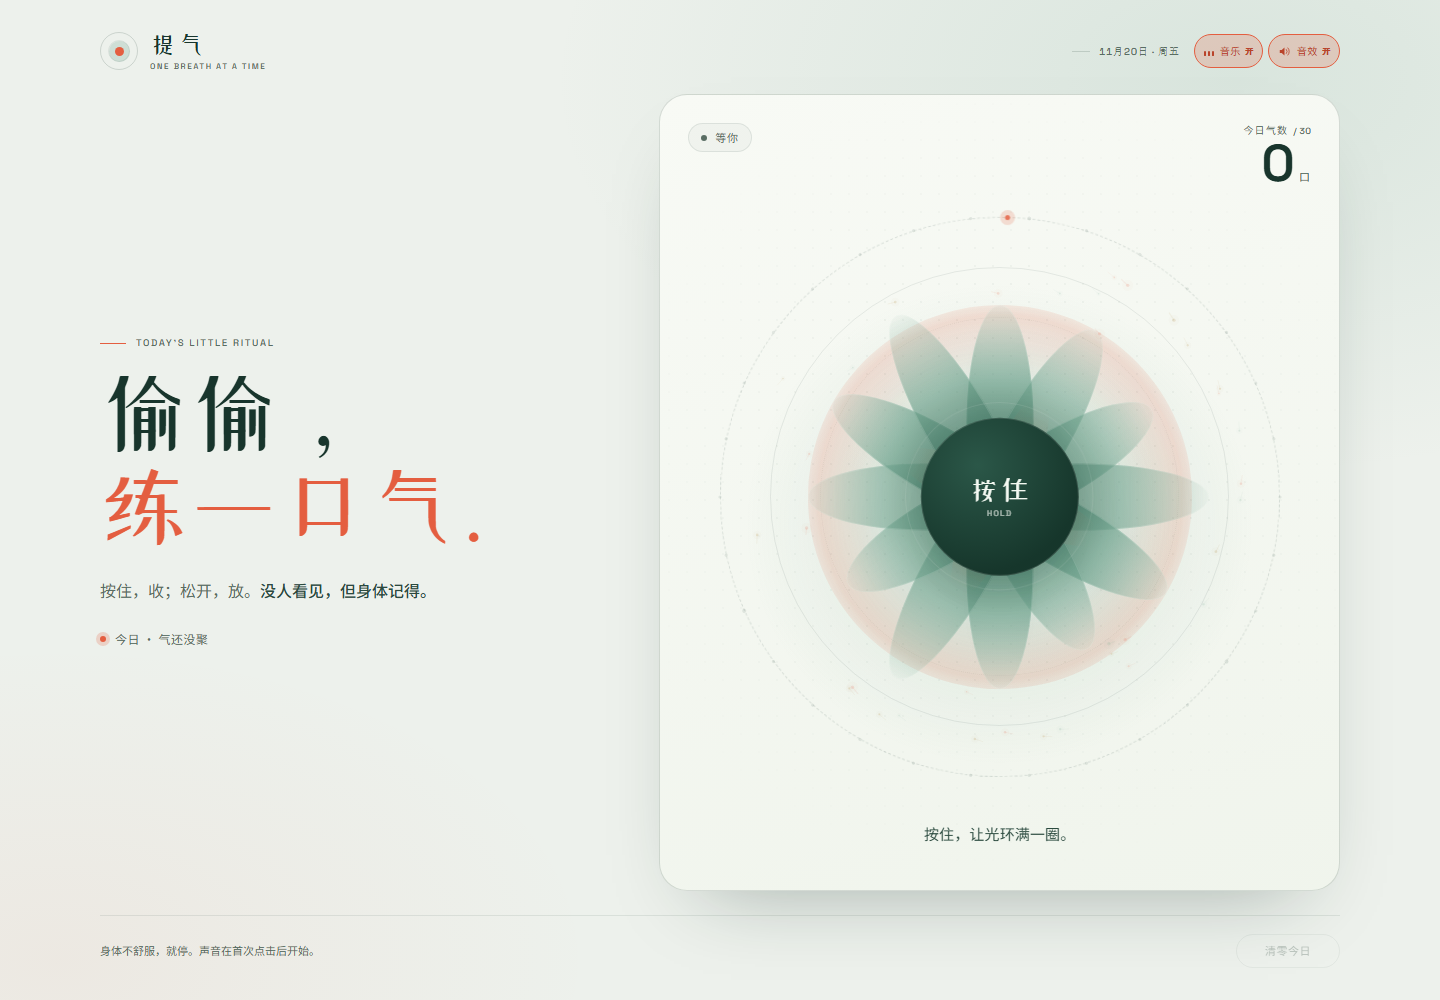
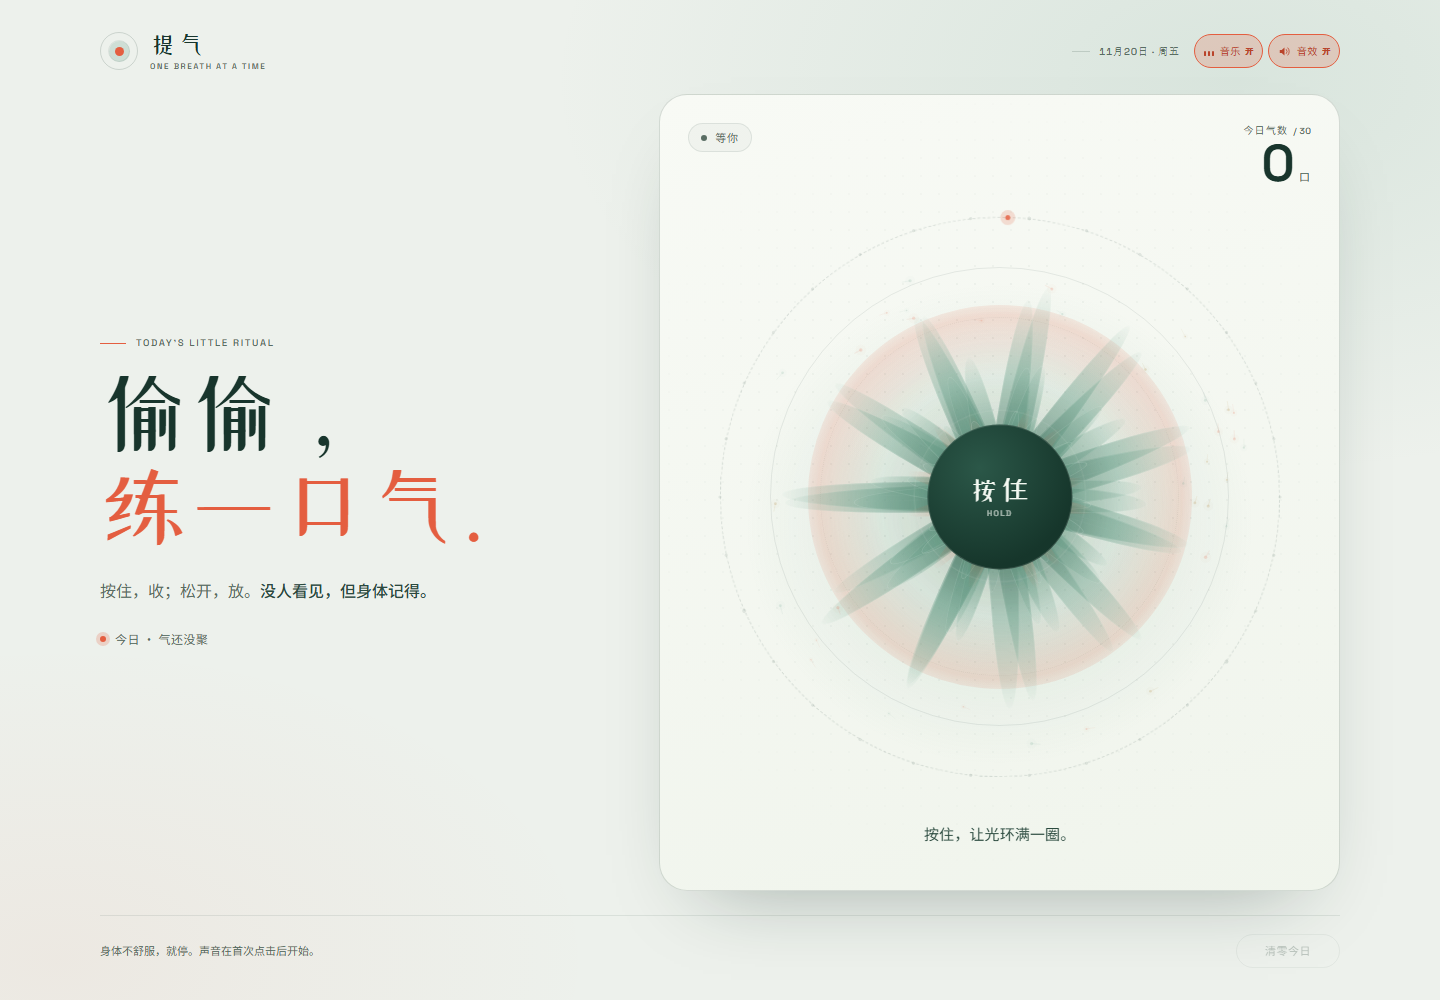
Turn the bloom into a chrysanthemum with camera and shake

Changed region(s): [[0.5625, 0.31, 0.8438, 0.682]]

diff --git a/index.html b/index.html
@@ -668,23 +668,40 @@
     pointer-events: none;
   }
 
-  .petals {
+  .petal-art {
     position: absolute;
     inset: 2.5%;
+    z-index: 1;
     pointer-events: none;
   }
 
-  .petals-outer {
-    z-index: 1;
-    transform: rotate(calc(var(--squeeze, 0) * 24deg)) scale(calc(1 - var(--squeeze, 0) * 0.06));
+  .petal-layer {
+    position: absolute;
     transform-origin: 50% 50%;
   }
 
-  .petals-inner {
-    inset: 15%;
+  .layer-guard {
+    inset: 0;
+    z-index: 1;
+    transform: rotate(calc(var(--squeeze, 0) * 32deg)) scale(calc(1 - var(--squeeze, 0) * 0.07));
+  }
+
+  .layer-mid {
+    inset: 8%;
     z-index: 2;
-    transform: rotate(calc(var(--squeeze, 0) * -36deg)) scale(calc(1 - var(--squeeze, 0) * 0.09));
-    transform-origin: 50% 50%;
+    transform: rotate(calc(var(--squeeze, 0) * -28deg)) scale(calc(1 - var(--squeeze, 0) * 0.06));
+  }
+
+  .layer-inner {
+    inset: 16%;
+    z-index: 3;
+    transform: rotate(calc(var(--squeeze, 0) * 40deg)) scale(calc(1 - var(--squeeze, 0) * 0.05));
+  }
+
+  .layer-heart {
+    inset: 17%;
+    z-index: 4;
+    transform: rotate(calc(var(--squeeze, 0) * -46deg)) scale(calc(1 - var(--squeeze, 0) * 0.04));
   }
 
   .petal {
@@ -697,47 +714,54 @@
     position: absolute;
     top: 50%;
     left: 50%;
-    width: 16%;
-    height: 46%;
-    border-radius: 52% 52% 48% 48% / 64% 64% 38% 38%;
+    width: var(--w, 7.2%);
+    height: var(--h, 42%);
+    border-radius: 52% 48% 44% 56% / 76% 76% 24% 24%;
     background: linear-gradient(to top, var(--petal-base) 0%, var(--petal-mid) 58%, var(--petal-tip) 100%);
     box-shadow:
       inset 0 0 0 1px var(--petal-line),
       0 18px 30px -22px var(--petal-shadow);
-    transform: translate(-50%, -100%) scaleY(calc(1 - var(--squeeze, 0) * 0.38)) scaleX(calc(1 - var(--squeeze, 0) * 0.14));
+    opacity: var(--leaf-opacity, 0.7);
+    transform:
+      translate(-50%, -100%)
+      rotate(var(--bend, 0deg))
+      scaleY(calc(1 - var(--squeeze, 0) * var(--fold, 0.46)))
+      scaleX(calc(1 - var(--squeeze, 0) * 0.2));
     transform-origin: 50% 100%;
-    transition:
-      filter 450ms ease,
-      opacity 450ms ease;
+    transition: filter 450ms ease, opacity 450ms ease;
   }
 
-  .petals-outer .petal:nth-child(2n) .leaf {
-    opacity: 0.78;
+  .leaf::after {
+    content: "";
+    position: absolute;
+    top: 14%;
+    bottom: 9%;
+    left: 50%;
+    width: 1px;
+    border-radius: 1px;
+    background: linear-gradient(to top, var(--petal-line), transparent 86%);
+    opacity: 0.55;
+    pointer-events: none;
+    transform: translateX(-50%);
   }
 
-  .petals-outer .petal:nth-child(3n) .leaf {
-    height: 42%;
-    opacity: 0.88;
+  .layer-guard .leaf {
+    --fold: 0.48;
   }
 
-  .petals-outer .petal:nth-child(4n) .leaf {
-    height: 50%;
+  .layer-mid .leaf {
+    --fold: 0.46;
   }
 
-  .petals-inner .leaf {
-    width: 14%;
-    height: 35%;
-    border-radius: 50% 50% 46% 46% / 62% 62% 40% 40%;
-    background: linear-gradient(to top, var(--petal-inner) 0%, transparent 92%);
+  .layer-inner .leaf {
+    --fold: 0.4;
+  }
+
+  .layer-heart .leaf {
+    --fold: 0.32;
+    border-radius: 56% 44% 42% 58% / 78% 78% 22% 22%;
+    background: linear-gradient(to top, var(--accent-strong) 0%, var(--petal-inner) 48%, transparent 100%);
     box-shadow: none;
-    opacity: 0.7;
-    transform: translate(-50%, -100%) scaleY(calc(1 - var(--squeeze, 0) * 0.55)) scaleX(calc(1 - var(--squeeze, 0) * 0.1));
-    transition: opacity 400ms ease;
-  }
-
-  .petals-inner .petal:nth-child(2n) .leaf {
-    height: 29%;
-    opacity: 0.48;
   }
 
   .core-glow {
@@ -759,7 +783,7 @@
     position: absolute;
     top: 50%;
     left: 50%;
-    width: 36%;
+    width: 33%;
     aspect-ratio: 1;
     z-index: 4;
     border-radius: 50%;
@@ -2183,8 +2207,17 @@
     pointer-events: none;
   }
 
+  .dial {
+    transform: scale(calc(1 + var(--squeeze, 0) * 0.04));
+    transform-origin: 50% 50%;
+  }
+
   .arena.is-target .bloom-stage {
     animation: heldTension 0.95s ease-in-out infinite;
+  }
+
+  .arena.is-shaking {
+    animation: arenaShake 300ms cubic-bezier(0.36, 0.07, 0.19, 0.97);
   }
 
   .arena.is-resting .bloom::before {
@@ -2246,6 +2279,25 @@
     }
     50% {
       transform: scale(1.016);
+    }
+  }
+
+  @keyframes arenaShake {
+    0%,
+    100% {
+      transform: translate(0, 0);
+    }
+    18% {
+      transform: translate(calc(var(--shake-amp, 2px) * -1), 1px);
+    }
+    36% {
+      transform: translate(var(--shake-amp, 2px), -1px);
+    }
+    54% {
+      transform: translate(calc(var(--shake-amp, 2px) * -0.62), 1px);
+    }
+    72% {
+      transform: translate(calc(var(--shake-amp, 2px) * 0.34), 0);
     }
   }
 
@@ -2486,31 +2538,7 @@
           >
             <span class="aura" aria-hidden="true"></span>
 
-            <span class="petals petals-outer" aria-hidden="true">
-              <span class="petal" style="--a: 0deg"><span class="leaf"></span></span>
-              <span class="petal" style="--a: 30deg"><span class="leaf"></span></span>
-              <span class="petal" style="--a: 60deg"><span class="leaf"></span></span>
-              <span class="petal" style="--a: 90deg"><span class="leaf"></span></span>
-              <span class="petal" style="--a: 120deg"><span class="leaf"></span></span>
-              <span class="petal" style="--a: 150deg"><span class="leaf"></span></span>
-              <span class="petal" style="--a: 180deg"><span class="leaf"></span></span>
-              <span class="petal" style="--a: 210deg"><span class="leaf"></span></span>
-              <span class="petal" style="--a: 240deg"><span class="leaf"></span></span>
-              <span class="petal" style="--a: 270deg"><span class="leaf"></span></span>
-              <span class="petal" style="--a: 300deg"><span class="leaf"></span></span>
-              <span class="petal" style="--a: 330deg"><span class="leaf"></span></span>
-            </span>
-
-            <span class="petals petals-inner" aria-hidden="true">
-              <span class="petal" style="--a: 23deg"><span class="leaf"></span></span>
-              <span class="petal" style="--a: 68deg"><span class="leaf"></span></span>
-              <span class="petal" style="--a: 113deg"><span class="leaf"></span></span>
-              <span class="petal" style="--a: 158deg"><span class="leaf"></span></span>
-              <span class="petal" style="--a: 203deg"><span class="leaf"></span></span>
-              <span class="petal" style="--a: 248deg"><span class="leaf"></span></span>
-              <span class="petal" style="--a: 293deg"><span class="leaf"></span></span>
-              <span class="petal" style="--a: 338deg"><span class="leaf"></span></span>
-            </span>
+            <span class="petal-art" id="petalArt" aria-hidden="true"></span>
 
             <span class="core-glow" aria-hidden="true"></span>
 
@@ -2589,6 +2617,7 @@
     todayLabel: document.getElementById("todayLabel"),
     moodText: document.getElementById("moodText"),
     progressOrbit: document.getElementById("progressOrbit"),
+    petalArt: document.getElementById("petalArt"),
     motes: document.getElementById("motes"),
     waveLayer: document.getElementById("waveLayer"),
     musicToggle: document.getElementById("musicToggle"),
@@ -2626,6 +2655,7 @@
   let squeezeValue = 0;
   let squeezeBase = 0;
   let squeezeFrame = 0;
+  let shakeTimer = 0;
   let moteField = null;
   let musicEnabled = true;
   let sfxEnabled = true;
@@ -3556,6 +3586,62 @@
     el.progressOrbit.appendChild(fragment);
   }
 
+  function buildPetalArt() {
+    if (!el.petalArt || el.petalArt.childElementCount) return;
+
+    const layers = [
+      { className: "layer-guard", count: 22, offset: 0, width: 6.8, height: 49, opacity: 0.58, bend: 4.2 },
+      { className: "layer-mid", count: 20, offset: 8.2, width: 7.2, height: 40, opacity: 0.7, bend: 3.6 },
+      { className: "layer-inner", count: 16, offset: 3.8, width: 6.4, height: 31, opacity: 0.8, bend: 2.8 },
+      { className: "layer-heart", count: 12, offset: 14, width: 5.6, height: 34, opacity: 0.76, bend: 2 }
+    ];
+
+    layers.forEach((spec) => {
+      const layer = document.createElement("span");
+      layer.className = `petal-layer ${spec.className}`;
+      const fragment = document.createDocumentFragment();
+
+      for (let index = 0; index < spec.count; index += 1) {
+        const petal = document.createElement("span");
+        const leaf = document.createElement("span");
+        const angle = spec.offset + (360 / spec.count) * index + (Math.random() - 0.5) * 5;
+        const bendDirection = index % 2 === 0 ? 1 : -1;
+        const bend = bendDirection * (spec.bend + Math.random() * 3.2);
+
+        petal.className = "petal";
+        petal.style.setProperty("--a", `${angle}deg`);
+        petal.style.setProperty("--bend", `${bend}deg`);
+
+        leaf.className = "leaf";
+        leaf.style.setProperty("--w", `${spec.width + (Math.random() - 0.5) * 1.1}%`);
+        leaf.style.setProperty("--h", `${spec.height + (Math.random() - 0.5) * 7}%`);
+        leaf.style.setProperty(
+          "--leaf-opacity",
+          String(Math.max(0.3, spec.opacity + (Math.random() - 0.5) * 0.16))
+        );
+
+        petal.appendChild(leaf);
+        fragment.appendChild(petal);
+      }
+
+      layer.appendChild(fragment);
+      el.petalArt.appendChild(layer);
+    });
+  }
+
+  function triggerShake(amplitude = 2) {
+    if (!el.arena || motionQuery.matches) return;
+
+    window.clearTimeout(shakeTimer);
+    el.arena.style.setProperty("--shake-amp", `${amplitude}px`);
+    el.arena.classList.remove("is-shaking");
+    void el.arena.offsetWidth;
+    el.arena.classList.add("is-shaking");
+    shakeTimer = window.setTimeout(() => {
+      el.arena.classList.remove("is-shaking");
+    }, 340);
+  }
+
   function moodForCount(value) {
     if (value <= 0) return "今日 · 气还没聚";
     if (value < 10) return "今日 · 有点儿意思了";
@@ -3753,6 +3839,7 @@
       setStatus("满格");
       setFeedback("满了，松手。");
       setHoldProgress(100);
+      triggerShake(2.2);
       if (sound) sound.target();
       vibrate(6);
     }
@@ -3811,6 +3898,7 @@
     releaseSqueeze(1);
     if (moteField) moteField.burst(1);
     emitExhale(1);
+    triggerShake(1.3);
     if (sound) sound.release();
     beginRest(restSeconds, milestone);
     spawnBurst(Boolean(milestone));
@@ -3907,6 +3995,8 @@
     window.cancelAnimationFrame(squeezeFrame);
     squeezeFrame = 0;
     squeezeBase = 0;
+    window.clearTimeout(shakeTimer);
+    el.arena.classList.remove("is-shaking");
     setSqueeze(0);
     if (moteField) moteField.reset();
 
@@ -4152,6 +4242,7 @@
     count = hotCount !== null ? hotCount : readStoredCount();
     if (hotCount !== null) saveCount();
 
+    buildPetalArt();
     buildProgressOrbit();
     if (!moteField) moteField = createMoteField();
     renderDaily(false);

diff --git a/README.md b/README.md
@@ -8,8 +8,8 @@
 
 ## 玩法
 
-- **按住**圆盘蓄气：花瓣会逐渐拧紧，光粒被吸进中心，四周慢慢变暗，直到满环。
-- **松开**后慢半拍展开：光粒向外散开，荡出两三圈涟漪，再缓缓恢复呼吸感。
+- **按住**圆盘蓄气：四层共 70 片细长花瓣会交错拧紧，光粒被吸进中心，镜头同步推近，四周慢慢变暗，直到满环。
+- 满环时画面轻轻一震；**松开**后慢半拍展开：花瓣层层摊开，光粒向外散开，荡出两三圈涟漪，再缓缓恢复呼吸感。
 - 光没满就松手，这一口不算；松开后要等它散完，再开始下一口。
 - 每完成一口，外圈就点亮一颗小小的星。三十口，连成今天的一整圈。
 - 第 10、20、30 口会出现印章和一句话；底色、光圈和今日状态也会跟着变化。
